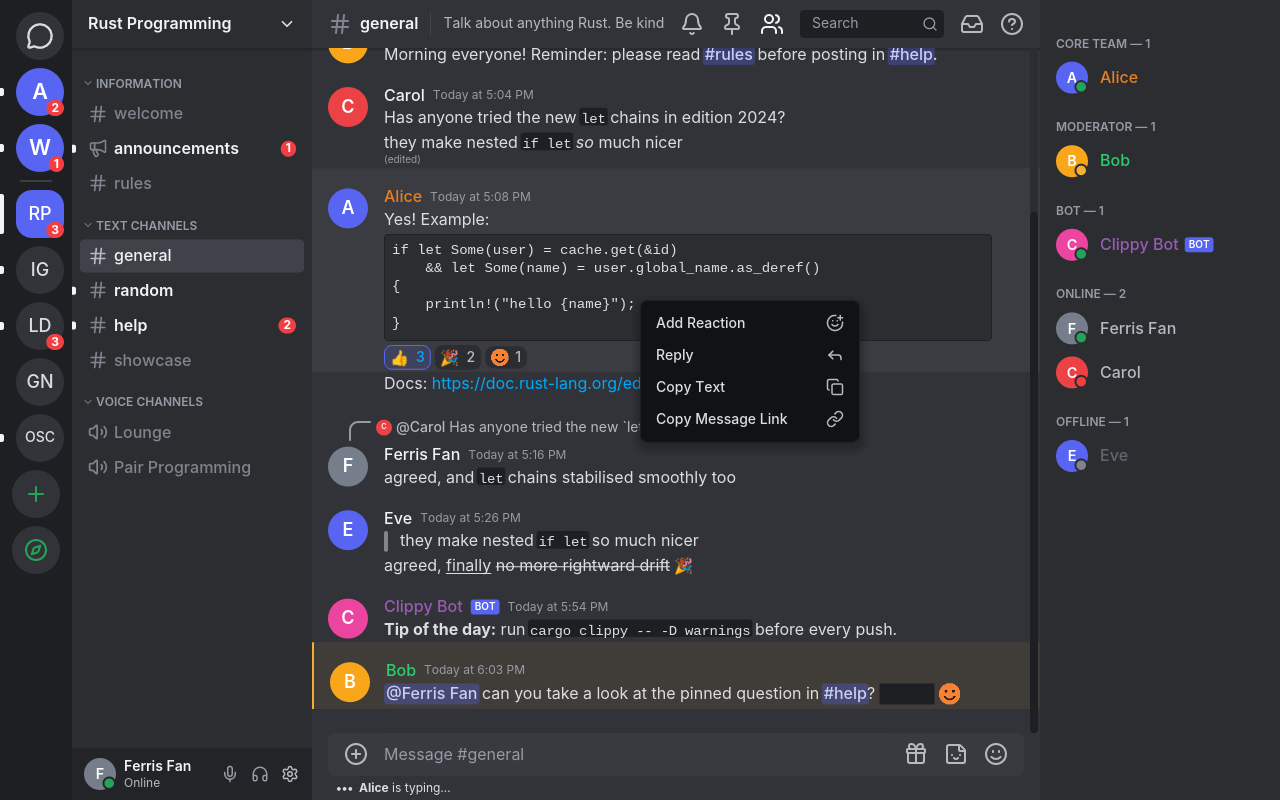
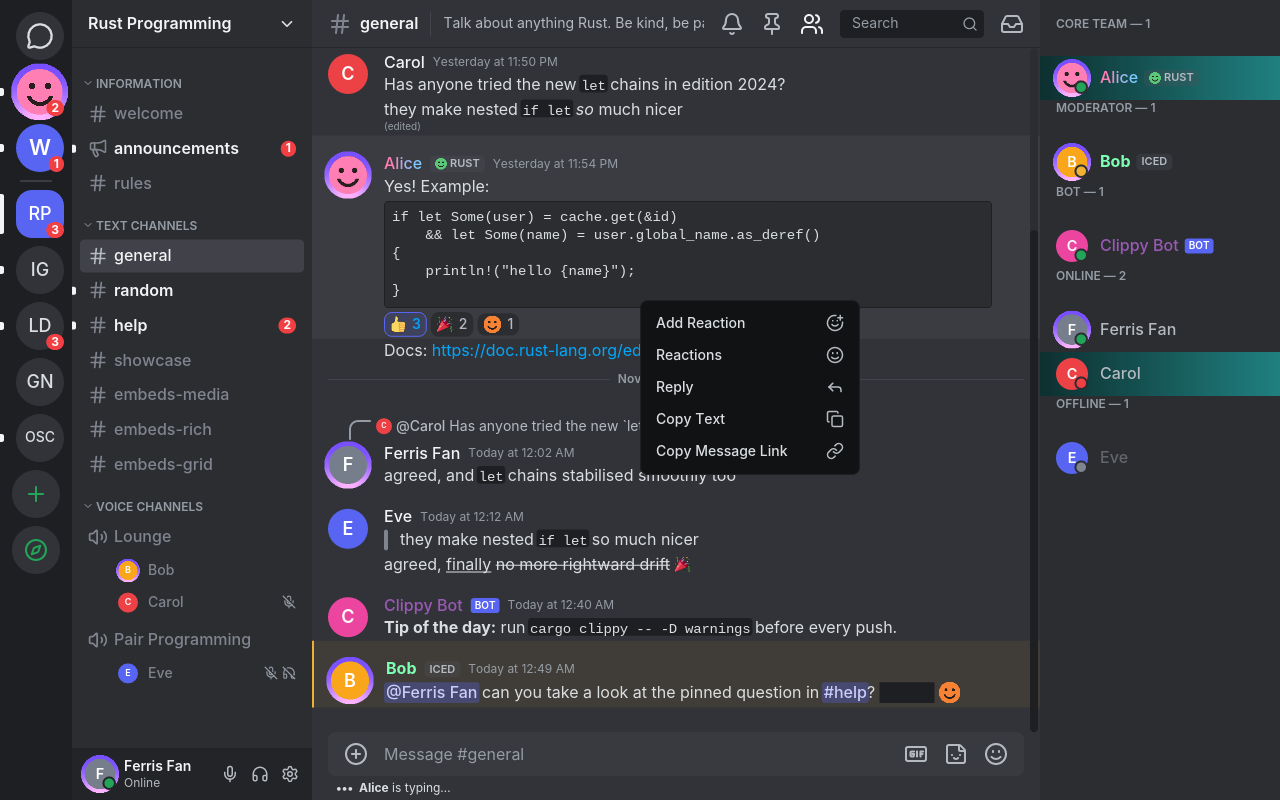
docs: member list ranges, group DM recipients and reactor tooltips
Adds the `reactions` and `members-large` screenshot targets and the
hovered tooltip capture.

Claude-Session: https://claude.ai/code/session_011GZUAJAc8TohrBZJFGozGm

diff --git a/docs/protocol.md b/docs/protocol.md
@@ -40,7 +40,7 @@ states or remote auth.
 | 1 | HEARTBEAT | ↔ | Sent every `heartbeat_interval`; answered immediately when the server asks. |
 | 2 | IDENTIFY | → | Token, `capabilities`, `properties` (honest: `browser = "Ferrocord"`; same object as `X-Super-Properties`), presence. |
 | 3 | PRESENCE_UPDATE | → | Own status (`online`/`idle`/`dnd`/`invisible`) plus the custom status as an activity (`{type: 4, name: "Custom Status", state, emoji}`); also saved in the settings proto (§14). IDENTIFY carries the same presence. |
-| 14 | GUILD_SUBSCRIPTIONS | → | Member list ranges `{guild_id, typing, threads, channels: {id: [[0,99]]}}`, sent while the member sidebar is open. |
+| 14 | GUILD_SUBSCRIPTIONS | → | Member list ranges `{guild_id, typing, threads, activities, channels: {id: [[0,99], ...]}}` for the open channel, sent while the member sidebar is open (at most three 100-row ranges, see below). |
 | 6 | RESUME | → | `{ token, session_id, seq }` on the `resume_gateway_url`. |
 | 7 | RECONNECT | ← | Close with 4000 and resume. |
 | 9 | INVALID_SESSION | ← | `d = true` → resume; `false` → reset session, wait 1–5 s, identify. |
@@ -52,10 +52,55 @@ states or remote auth.
 The app records what it wants (own status, member list ranges) in a shared
 `GatewayHandle`; the runner sends op 3 / op 14 once the session is READY and
 again after every reconnect or resume. Identical requests are not re-sent.
-Member list ranges grow in steps of 100 rows up to 500 (`app/members.rs`);
-`GUILD_MEMBER_LIST_UPDATE` ops (SYNC, INSERT, UPDATE, DELETE, INVALIDATE) are
-applied by a bounded sparse list (at most 1500 rows). Presence comes from
-READY `presences` (friends), `PRESENCE_UPDATE`, and member list items.
+Presence comes from READY `presences` (friends), `PRESENCE_UPDATE`, and member
+list items.
+
+### Member list (`app/members.rs`, `ui/members.rs`)
+
+Like the official client:
+
+* **Ranges follow the scroll position.** The sidebar always subscribes to
+  `[0, 99]` plus the 100-row chunks at the visible window (with a 30-row
+  preload margin), three ranges at most: `[[0,99]]` at the top,
+  `[[0,99],[2500,2599]]` (and the next chunk near its end) deep in a big list.
+  A scroll that changes the chunks re-sends op 14 for the same channel.
+* **The list knows its length, not its rows.** Every
+  `GUILD_MEMBER_LIST_UPDATE` carries `groups` (`[{id, count}]`: hoisted
+  roles, `online`, `offline`); total rows = members + one header per group.
+  Rows are kept in a sparse map and only inside the subscribed ranges, so a
+  100 000-member server costs as much as a small one. Discord itself leaves the
+  offline group out for servers of about 1000 members or more (same as the
+  official client: only online members are listed there).
+* **Ops**: `SYNC {range, items}` fills a range; `INSERT {index, item}` /
+  `DELETE {index}` shift every later row by one (a moved member is a DELETE
+  plus an INSERT in one update); `UPDATE {index, item}` replaces a row;
+  `INVALIDATE {range}` forgets a range (it shows placeholders again). An item
+  we cannot read keeps its slot (an empty item), and an unreadable item never
+  drops the whole update: one odd member used to fail the event, so a whole
+  SYNC (every member of a range) was lost.
+* **List ids.** `id` is `everyone` or a hash of the channel's view
+  permissions; channels with different permissions have different lists.
+  After a channel switch in the same server the rows stay until the first
+  SYNC: a SYNC of another list replaces them, and later updates of the old
+  list are ignored. Ops for a list that never had a SYNC are ignored.
+* **Drawing** is virtualised (`ui::members::ROWS`): member rows are 44 px and
+  group headers 40 px, so the visible window is computed from the scroll
+  offset; rows not loaded yet are grey skeleton rows of the same height.
+
+Fixed after 0.20.0 (user report "not all members show up"): the old list asked
+for at most rows 0-499 (`ranges_for` capped at five ranges) and showed only
+loaded rows, so members past row 500 never appeared; it kept the previous
+channel's rows and applied the old list's updates after a channel switch
+(members of a private channel mixed with `everyone`); it dropped INSERTs once
+1500 rows existed (every later row one place off); and one unreadable member
+item failed the whole update.
+
+**Group DMs** have no member list subscription: the panel lists the channel's
+`recipients` (plus the current user), kept current by
+`CHANNEL_RECIPIENT_ADD` / `CHANNEL_RECIPIENT_REMOVE` (`{channel_id, user}`;
+previously ignored, so people added to a group only showed after a restart).
+A recipient id without a user object gets an "Unknown User" placeholder until
+a payload carries the user, instead of disappearing.
 
 ### Heartbeat, zombies, reconnect
 
@@ -80,7 +125,8 @@ shared `Decompress` context. The buffer is capped at 64 MiB.
 `READY`, `READY_SUPPLEMENTAL`, `RESUMED`, `MESSAGE_CREATE`, `MESSAGE_UPDATE`
 (partial), `MESSAGE_DELETE`, `MESSAGE_DELETE_BULK`, `TYPING_START`,
 `MESSAGE_ACK`, `CHANNEL_CREATE/UPDATE/DELETE`, `THREAD_CREATE/UPDATE/DELETE`,
-`GUILD_CREATE/UPDATE/DELETE`, `MESSAGE_REACTION_ADD/REMOVE/REMOVE_ALL/REMOVE_EMOJI`,
+`CHANNEL_RECIPIENT_ADD/REMOVE`, `GUILD_CREATE/UPDATE/DELETE`,
+`MESSAGE_REACTION_ADD/REMOVE/REMOVE_ALL/REMOVE_EMOJI` (with `burst`),
 `PRESENCE_UPDATE`, `GUILD_MEMBER_LIST_UPDATE`, `GUILD_EMOJIS_UPDATE`, `GUILD_STICKERS_UPDATE`. Unknown events are ignored; a malformed known
 event is logged (without its payload) and the connection stays up.
 
@@ -137,6 +183,7 @@ client's retry. Ferrocord never solves a captcha and uses no solver service.
 | Edit / delete | `PATCH` / `DELETE /channels/{c}/messages/{m}` |
 | Reply | `POST .../messages` with `message_reference` and, if "@ OFF", `allowed_mentions {parse:[users,roles,everyone], replied_user:false}` |
 | Reactions | `PUT/DELETE /channels/{c}/messages/{m}/reactions/{emoji}/@me` (`%`-encoded Unicode, or `name:id`) |
+| Who reacted | `GET /channels/{c}/messages/{m}/reactions/{emoji}?limit=&type=0\|1[&after=]` (`type=1`: burst / super reactions; users in id order, `after` = last user id). Only on hover / dialog, see §8. |
 | Jump | `GET .../messages?around={m}` / `?after={m}` |
 | Search | `GET /guilds/{g}/messages/search?content=&offset=` or `/channels/{c}/...` (202 + `retry_after` while indexing is retried, max 4 tries) |
 | Upload | `POST .../messages` `multipart/form-data`: `payload_json` + `files[n]`, streamed from disk with an explicit `Content-Length` |
@@ -294,6 +341,19 @@ Fonts: Inter (OFL) and Twemoji (CC-BY 4.0, COLRv0 font) embedded. Icons: Lucide
 (ISC), plus our own `gif.svg` in the same style. No Discord logos, fonts or artwork are used.
 
 ## 8. Round 2 behaviour notes
+
+* **Who reacted** (`app/reactions.rs`, `ui/reactions.rs`): hovering a
+  reaction pill shows the official tooltip, "Alice, Bob, and 3 others reacted
+  with :thumbsup:" (word shortcodes, `:name:` for custom emoji), after a
+  300 ms rest. Only then are the first 3 reactors fetched (never for every
+  message on screen); leaving earlier fetches nothing (a generation counter
+  drops the timer). Right-click on a pill, or "Reactions" in the message menu,
+  opens the dialog: one tab per emoji (burst reactions get their own tab,
+  `count_details.burst`), 100 users per page with "Load more" (up to 1000).
+  Lists are cached in a 64-entry LRU; `MESSAGE_REACTION_ADD/REMOVE` patch a
+  complete list in place (known user) or mark it stale (refetched on next
+  hover), `REMOVE_EMOJI` / `REMOVE_ALL` / `MESSAGE_DELETE` drop it. All calls go
+  through the REST layer's buckets (reaction routes share one `:emoji` bucket).
 
 * **Replies**: header from `referenced_message` (null = "Original message was
   deleted"); refreshed from the loaded window when the original is there.

diff --git a/CLAUDE.md b/CLAUDE.md
@@ -9,7 +9,7 @@ Video (camera / Go Live) is not implemented yet: see `docs/voice.md` §6.
 
 ## Commands
 - `cargo run -- --mock` — run with mock data (no network, in-memory stores).
-- `cargo run -- --mock --screenshot <login|login-captcha|login-web|login-web-failed|guild|dms|embeds|voice|call|incoming-call|gifs|gif-trending|gif-favorites|emoji-locked|stickers-locked|settings|settings-<profiles|privacy|status|appearance|accessibility|voice|chat|notifications|keybinds|language|advanced|updates>|plugins|plugin-prompt|plugin-decorations|update-banner> out.png` — render a screen to PNG
+- `cargo run -- --mock --screenshot <login|login-captcha|login-web|login-web-failed|guild|dms|embeds|voice|call|incoming-call|gifs|gif-trending|gif-favorites|emoji-locked|stickers-locked|settings|settings-<profiles|privacy|status|appearance|accessibility|voice|chat|notifications|keybinds|language|advanced|updates>|plugins|plugin-prompt|plugin-decorations|update-banner|reactions|members-large> out.png` — render a screen to PNG
   (headless: `ICED_BACKEND=tiny-skia xvfb-run -a -s "-screen 0 1280x800x24" ...`).
 - `cargo fmt --check`, `cargo clippy --all-targets -- -D warnings`, `cargo test`.
 - `cargo build --release`. `ferrocord --version` / `-V` (also `ferrocord-player`, `ferrocord-login`).
@@ -111,3 +111,10 @@ CI (`.github/workflows/ci.yml`) runs fmt, clippy and tests on ubuntu-latest.
   `install.sh` layout and a writable Windows zip folder; cargo installs get the `cargo install` command, everything
   else the release page. Reuse `install.sh`'s paths and file list (`update::install::SHIPPED`); stage next to the
   target and rename, roll back on failure. Restart runs the installed path, never `current_exe()` ("(deleted)").
+- Member sidebar (`app/members.rs`, `ui/members.rs`, docs/protocol.md §2 "Member list"): op 14 asks for `[0,99]` plus the
+  chunks at the scroll position (max 3 ranges, like the official client); rows live in a sparse map only inside the
+  subscribed ranges, the length comes from `groups`. Rows have FIXED heights (`ui::members::ROWS`): the visible window
+  is computed from the scroll offset, so keep every row exactly that tall. A list belongs to a list id: after a channel
+  switch only a SYNC adopts another list. Group DMs: `recipients` + `CHANNEL_RECIPIENT_ADD/REMOVE`.
+- Who reacted (`app/reactions.rs`, `ui/reactions.rs`): reactors are fetched ONLY after a 300 ms hover on a pill or
+  when the Reactions dialog opens a tab, never per message on screen; bounded LRU patched/invalidated by reaction events.

diff --git a/LESSONS.md b/LESSONS.md
@@ -109,3 +109,12 @@ Things learned while building Ferrocord that are worth remembering.
   italic. Keep the UI family first in the fallback and bundle every style the views use. Reproduce with
   `FONTCONFIG_FILE` pointing at a conf with only DejaVu, `--mock --minimized` under `dbus-run-session` (no tray
   host, so the window opens later).
+- **"Not all members show up" (v0.20.0).** Four causes, each reproduced with a reducer test: the sidebar never
+  subscribed past row 499 (five fixed ranges) and only drew loaded rows; a channel switch in the same server kept the
+  previous channel's rows and applied that list's later INSERT/DELETEs (lists are per *list id*: `everyone` or a hash of
+  the channel's view overwrites); INSERTs were dropped once 1500 rows existed, shifting every later row; and one
+  unreadable member item failed the whole `GUILD_MEMBER_LIST_UPDATE`. Match the official client: `[0,99]` plus the chunks
+  at the scroll position (three ranges), the length from `groups`, a sparse map of the subscribed ranges, fixed row
+  heights so the visible window is plain arithmetic, and per-item lenient parsing that keeps every slot.
+- Group DMs change members through `CHANNEL_RECIPIENT_ADD/REMOVE`, not through the channel object: without them a
+  person added to a group appeared only after a restart.
